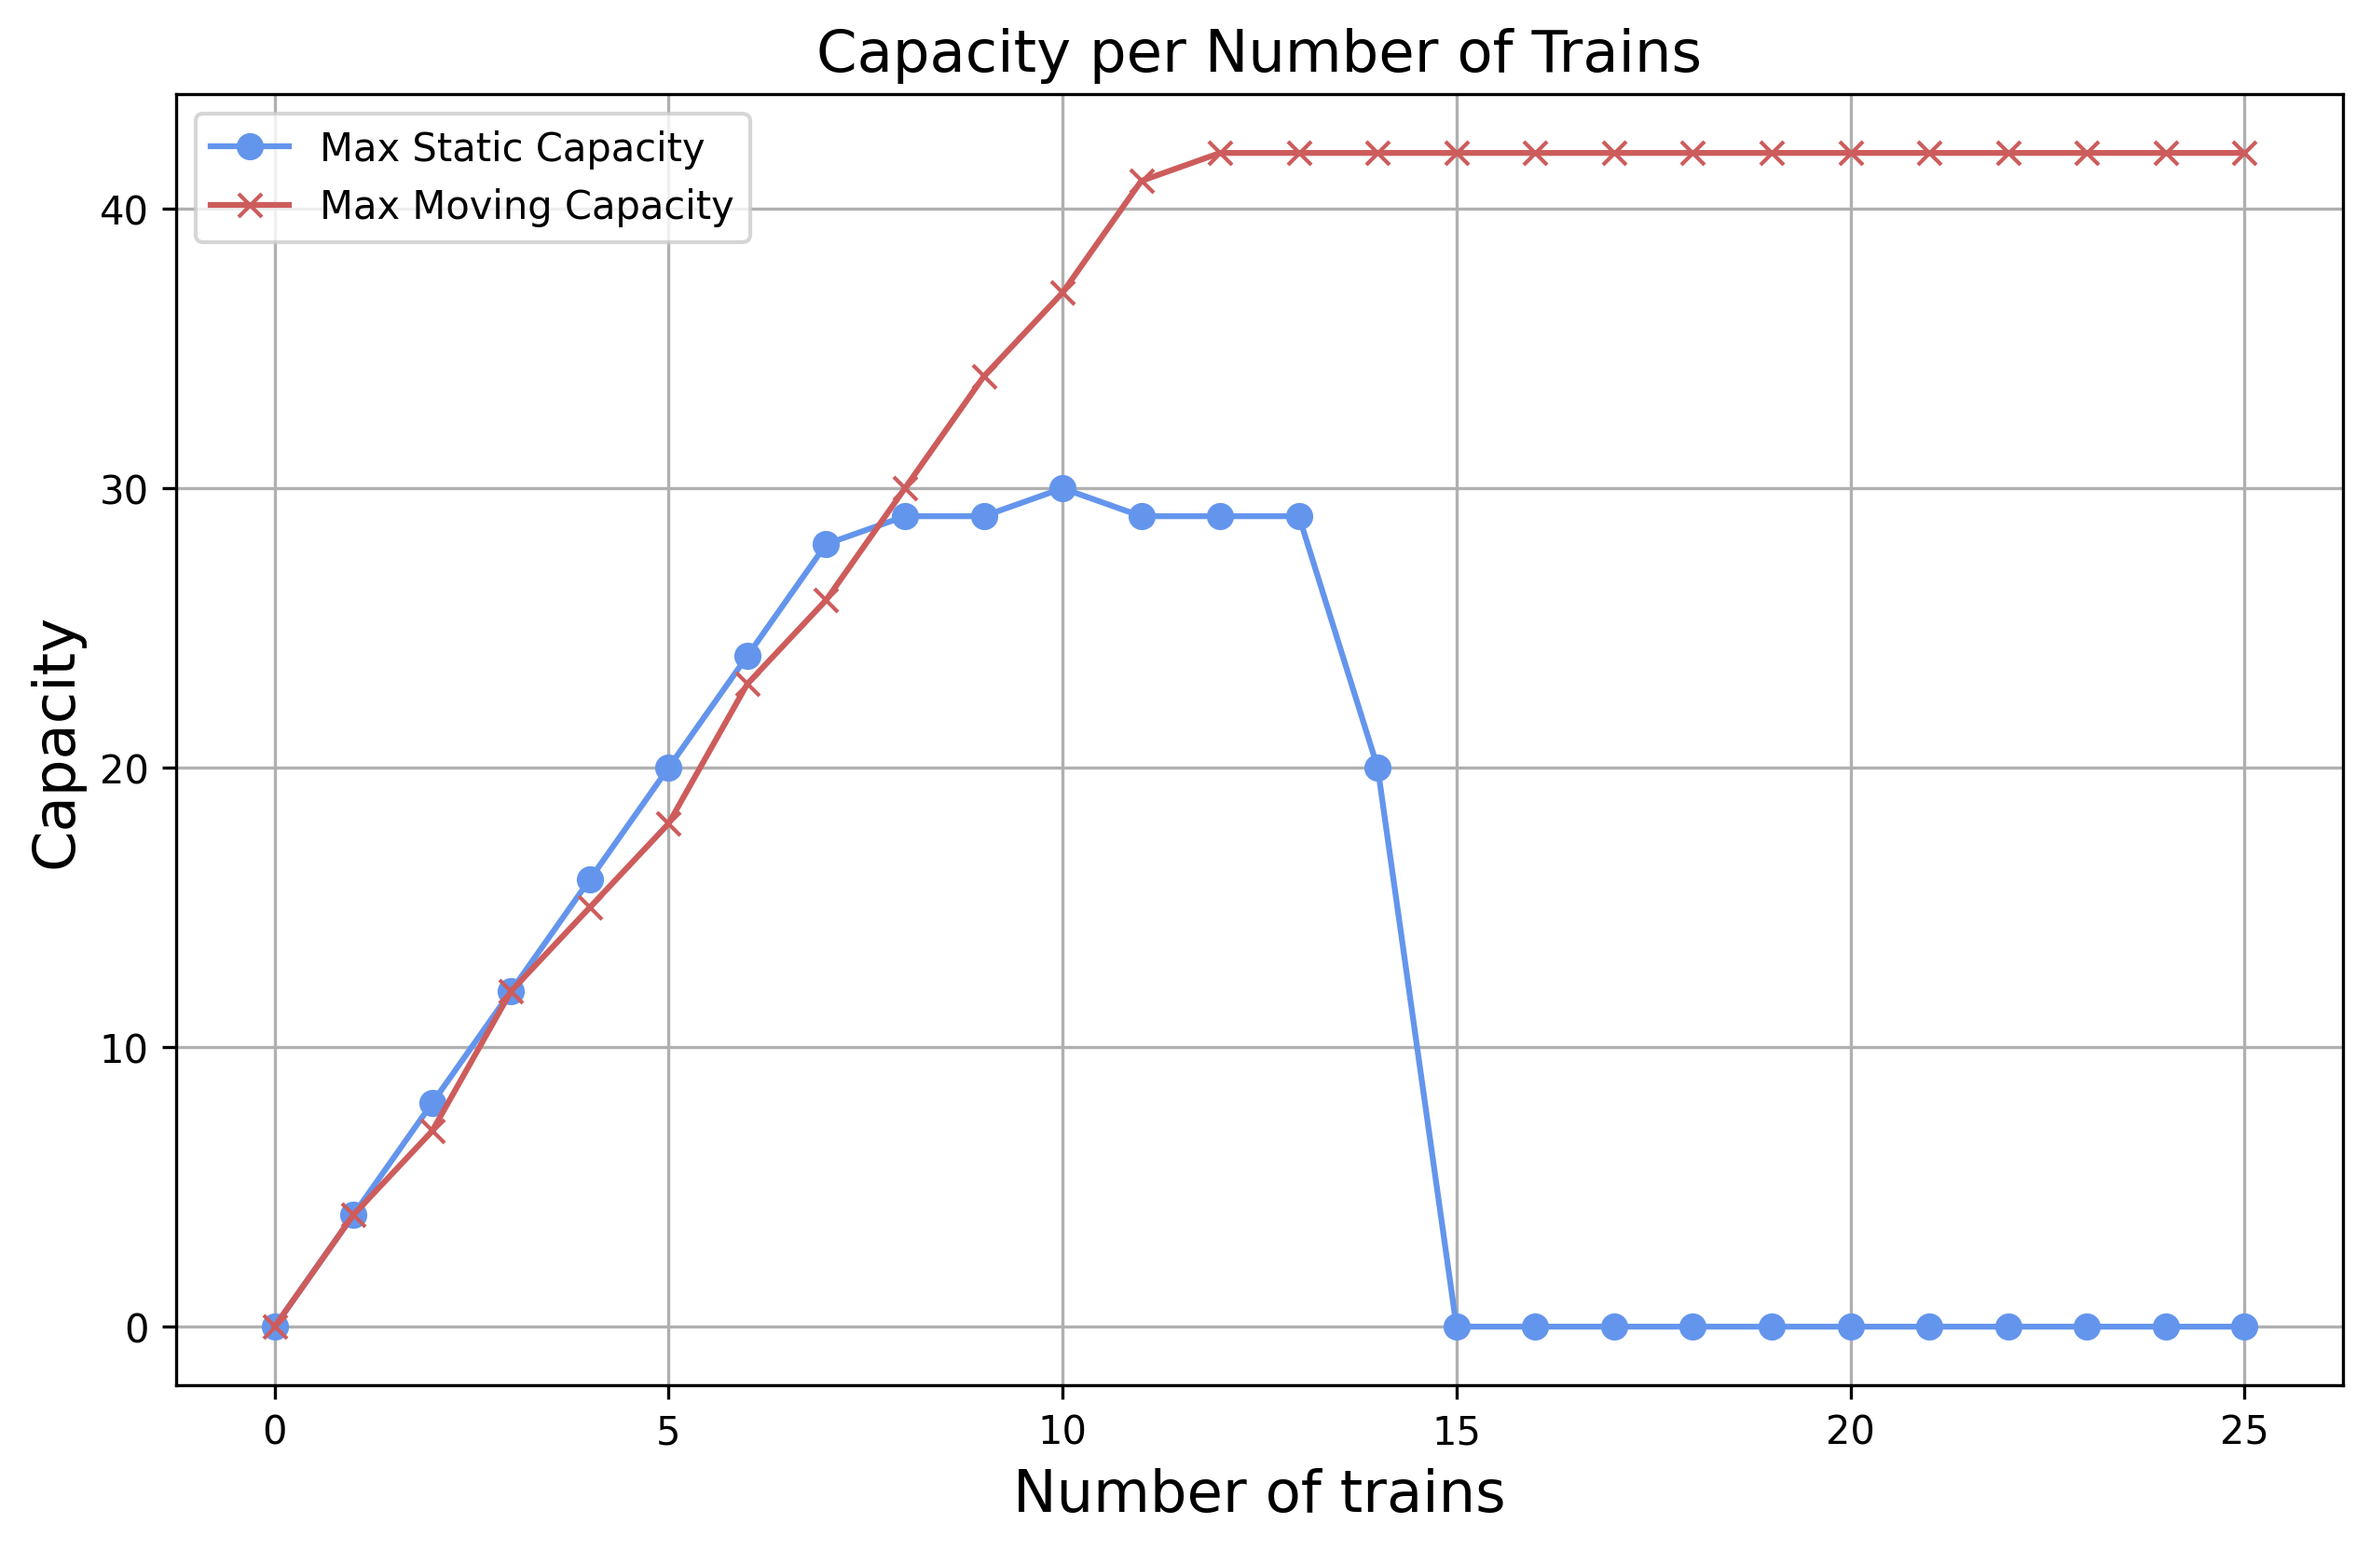
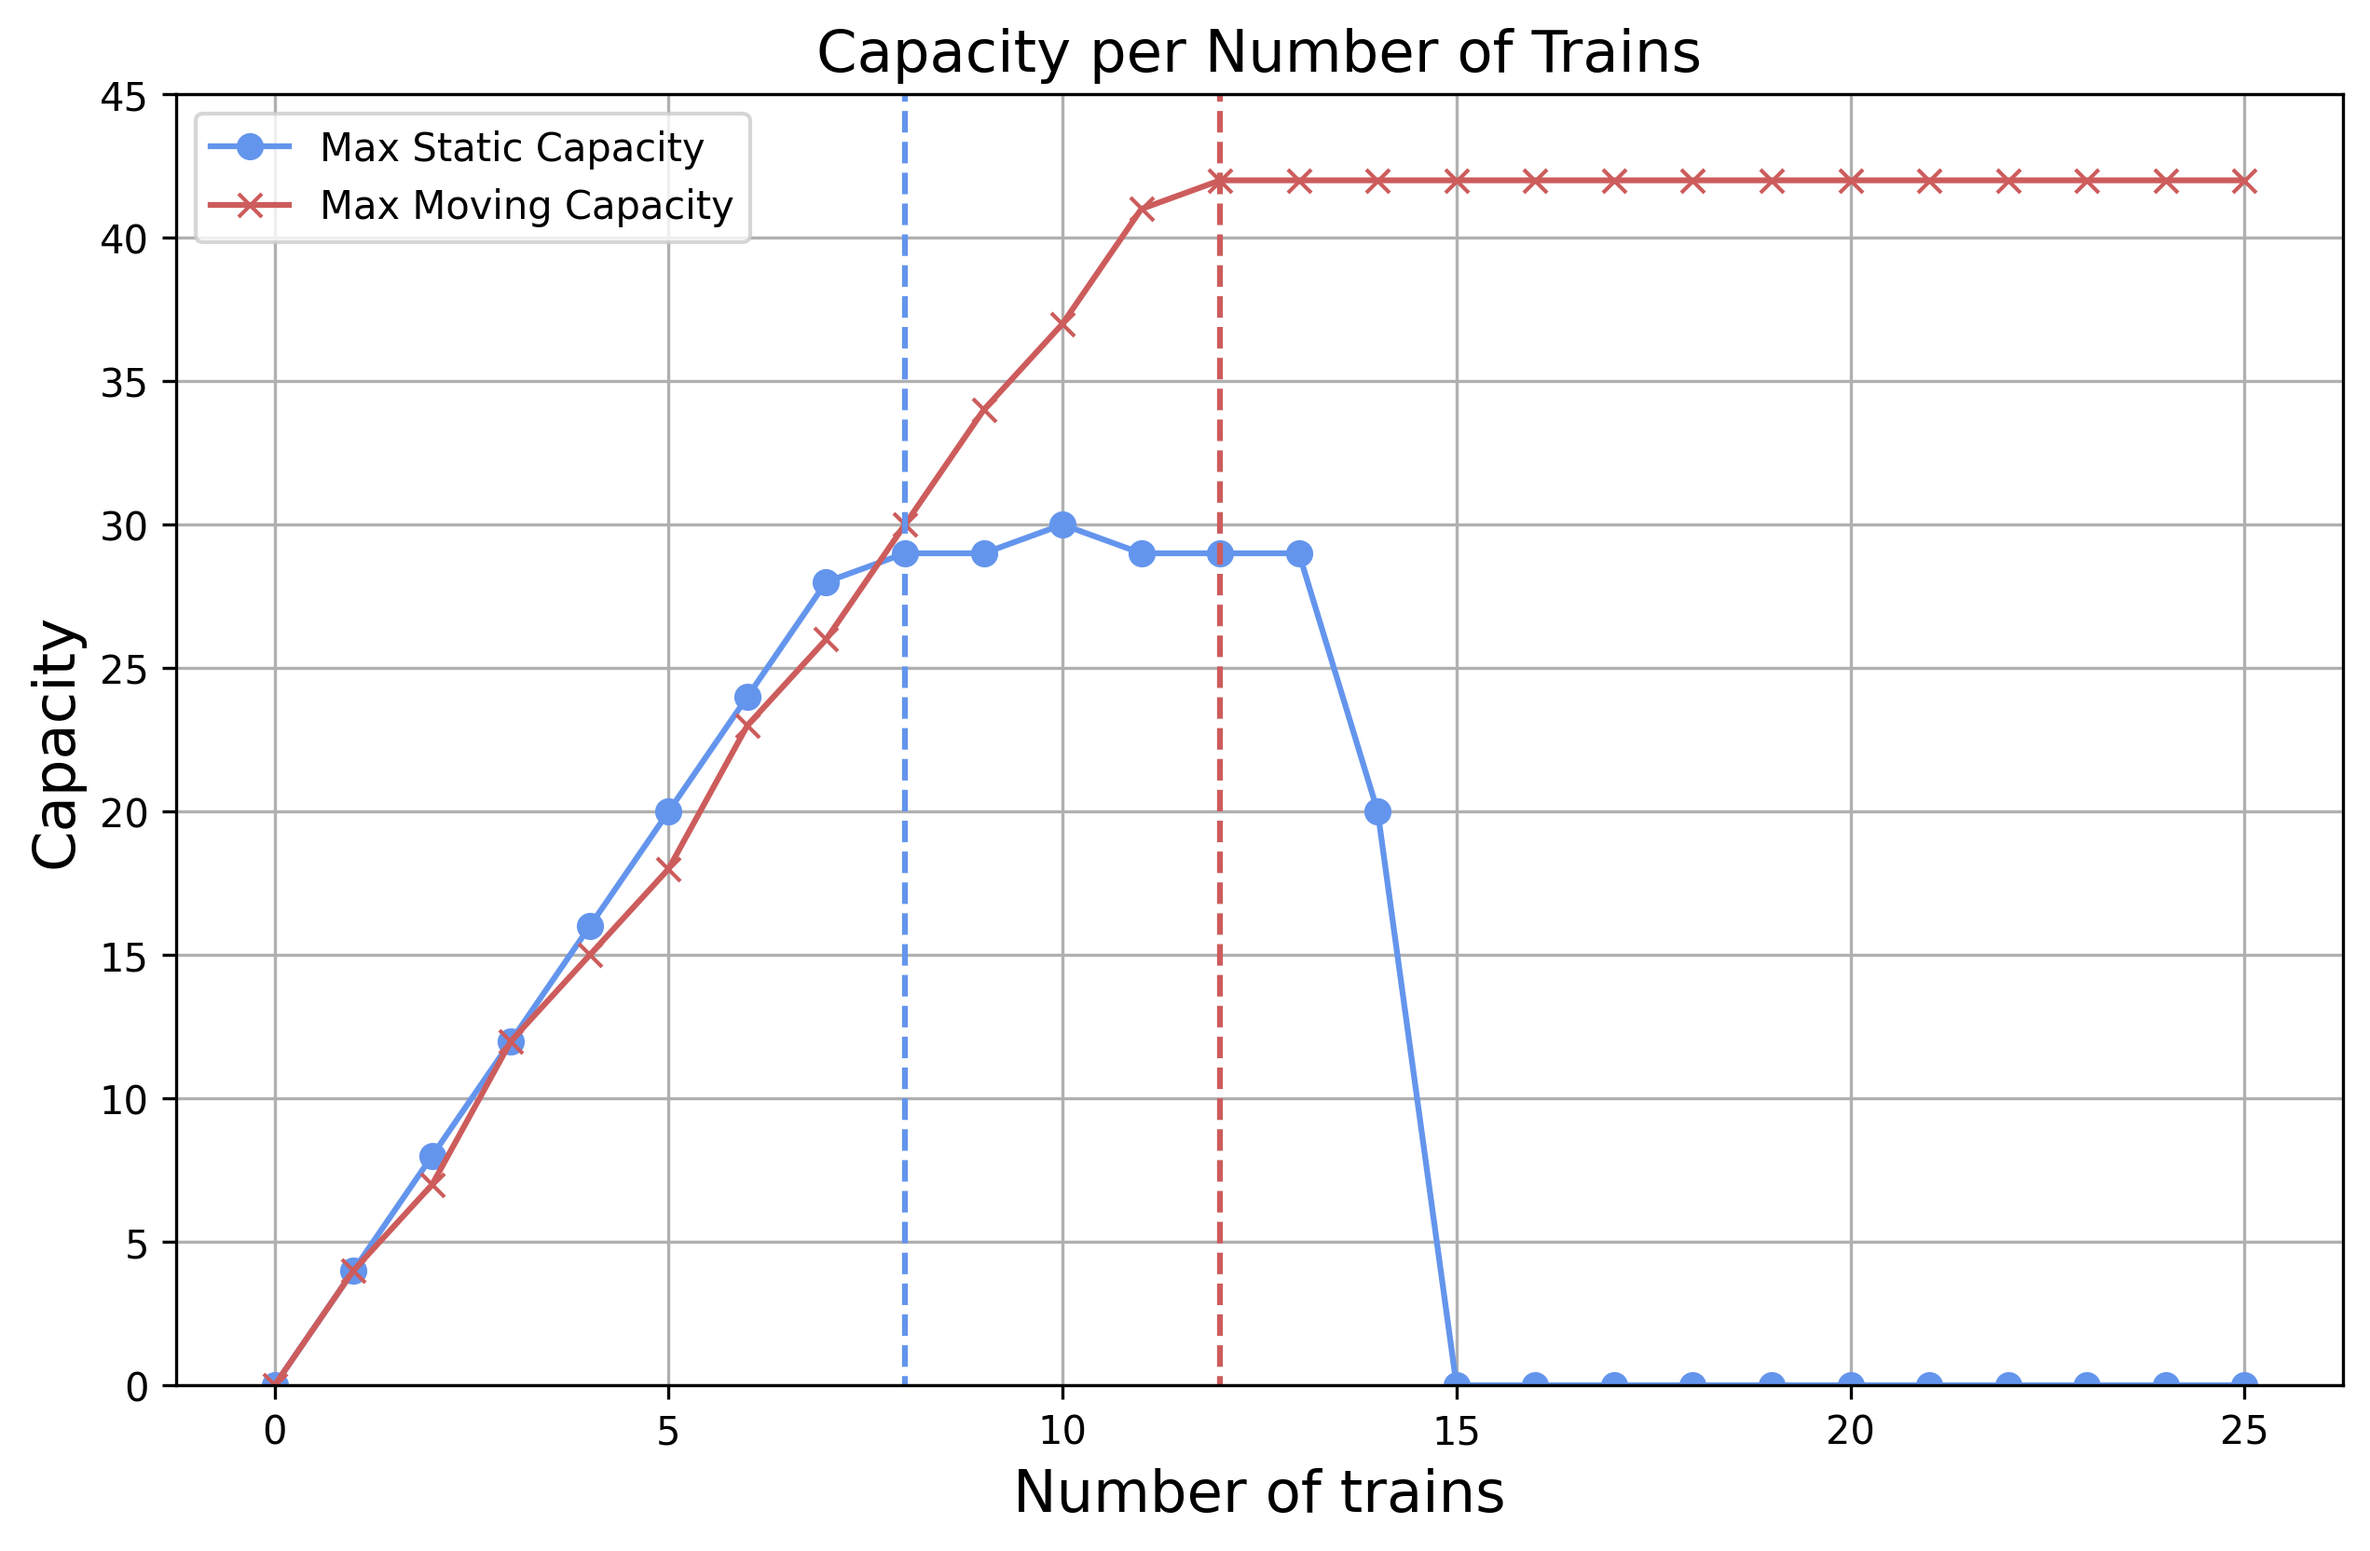
did some things with graphs

diff --git a/analysis/variablesEffect.py b/analysis/variablesEffect.py
@@ -61,7 +61,10 @@ experiment_definitions_model = {
     "dt": [
         {"dt": 0.1},
         {"dt": 1},
-        {"dt": 2}
+        {"dt": 2},
+        {"dt": 5},
+        {"dt":10},
+        {"dt":15}
     ]
 }
 
@@ -81,6 +84,7 @@ for variable_name, options in experiment_definitions_model.items():  # options i
         wide = run_experiment(**option, run_repetitions=False)
         result[option[variable_name]] = wide
     experiment_results[variable_name] = result
+
     fp = open("result_variables.json", "w")
     json.dump(experiment_results, fp)
     fp.close()
@@ -95,6 +99,7 @@ for variable_name, options in experiment_definitions_train.items():  # options i
         wide = run_experiment(train_specifications=[train], run_repetitions=False)
         result[option] = wide
     experiment_results[variable_name] = result
+
     fp = open("result_variables.json", "w")
     json.dump(experiment_results, fp)
     fp.close()

diff --git a/analysis/graphCapacityPerTrain.py b/analysis/graphCapacityPerTrain.py
@@ -22,6 +22,10 @@ for measurement in sprinter_data['wide']:
 plt.figure(figsize=(10,6))
 plt.plot(num_trains, static_capacity, label="Max Static Capacity", marker='o', color="cornflowerblue")
 plt.plot(num_trains, moving_capacity, label="Max Moving Capacity", marker='x', color="indianred")
+# Hardcoded lines to indicate Level off
+plt.plot([8, 8], [-10, 100], marker='', linestyle='dashed', color="cornflowerblue")
+plt.plot([12, 12], [-10, 100], marker='', linestyle='dashed', color="indianred")
+plt.ylim(0, 45)
 plt.xlabel("Number of trains", fontsize=15)
 plt.ylabel("Capacity", fontsize=15)
 plt.title("Capacity per Number of Trains", fontsize=15)
